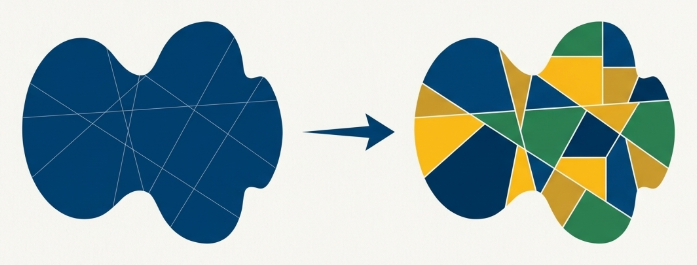
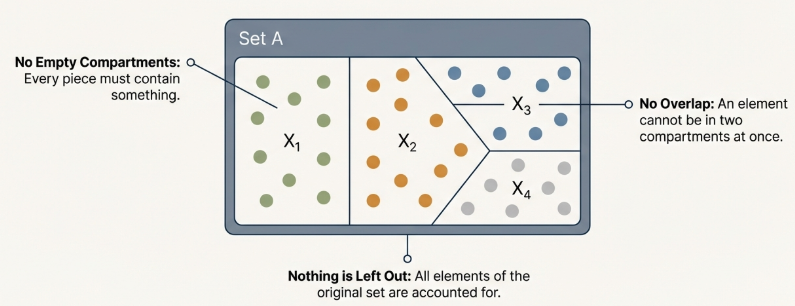
[MPTAM] 01_05 01_06: finish notes

diff --git a/content/math/mptam/01_sets.md b/content/math/mptam/01_sets.md
@@ -249,11 +249,51 @@ Let $A = \\{1, 2, 3, 4, 5, 6, 7\\}$. The collection $S = \\{\\{1, 6\\}, \\{2, 5\
 >
 > 1. **Non-Empty Subsets**: $X \neq \emptyset$ for every set $X \in S$.
 > 2. **Pairwise Disjoint**: For every two sets $X, Y \in S$, either $X = Y$ or $X \cap Y = \emptyset$.
-> 3. **Complete Union**: $\bigcup_{X \inS} X = A$.
+> 3. **Complete Union**: $\bigcup_{X \in S} X = A$.
 
 ![Partitions of Sets](./assets/partitions_of_sets.png)
 
 The 'non-empty' and 'complete union' properties together ensure that every element of $A$ belongs to at least one subset. The 'pairwise disjoint' property ensures that no element can belong to more than one. Combined, these three rigorous checks guarantee that every element of $A$ belongs to exactly one subset.
+
+The concept of partitions extends to well-known infinite sets, providing fundamental classifications:
+
+The set of integers $\mathbb{Z}$ can be partitioned into the set of even integers and the set of odd integers.
+
+The set of real numbers $\mathbb{R}$ can be partitioned into the set of positive real numbers ($\mathbb{R}^+$), the set of negative real numbers, and the singleton set $\\{0\\}$.
+
+The set of real numbers $\mathbb{R}$ can also be partitioned into the set of rational numbers ($\mathbb{Q}$) and the set of irrational numbers ($\mathbb{I}$).
+
+![Set Partitions Examples](./assets/set_partitions_examples.png)
+
+## Cartesian Products of Sets
+
+The Cartesian product is a fundamental set operation that creates a new set from two or more existing sets by forming ordered pairs of their elements.
+
+A critical distinction must be made between a set and an **ordered pair**. For a set containing two elements, such as $\\{x, y\\}$, the order is irrelevant, meaning $\\{x, y\\}$ is identical to $\\{y, x\\}$. In contrast, for an ordered pair $(x, y)$, the order is fundamental.
+
+In the ordered pair $(x, y)$, $x$ is designated as the **first coordinate** and $y$ as the **second coordinate**.
+
+The formal condition for the equality of two ordered pairs is that their corresponding coordinates must be identical. Consequently, if $x \neq y$, then the ordered pair $(x, y)$ is distinct from the ordered pair $(y, x)$.
+
+> [!NOTE] **Cartesian Product**
+>
+> The **Cartesian product** of two sets $A$ and $B$, denoted $A \times B$, is the set of all possible ordered pairs where the first coordinate is an element of $A$ and the second coordinate is an element of $B$.
+>
+> $$A \times B = \{(a, b) : a \in A \text{ and } b \in B\}$$
+
+The Cartesian product **is not a commutative operation**.
+
+> [!TIP] **Properties of Cartesian Products**
+>
+> Several key properties govern the behavior of Cartesian products:
+>
+> - **Cardinality**: For any two finite sets $A$ and $B$, the cardinality of their Cartesian product is the product of their individual cardinalities
+>
+> $$|A \times B| = |A| \cdot |B|$$
+>
+> - **The Empty Set**: If either of the sets in the product is the empty set, the resulting Cartesian product is also the empty set.
+
+A primary example of the Cartesian product is its application in geometry. The set $\mathbb{R} \times \mathbb{R}$ (the Cartesian product of the set of real numbers with itself) represents the set of all points in the two-dimensional Euclidean plane. This structure allows for the algebraic description of geometric figures.
 
 ## TL;DR
 
@@ -264,3 +304,7 @@ The 'non-empty' and 'complete union' properties together ensure that every eleme
 **Set Operations, Indexed Collections of Sets and Partitions**
 
 {{< youtube J9eiSOv_YhA >}}
+
+**Partitions of Sets and Cartesian Products of Sets**
+
+{{< youtube RcCfPZUAZaw >}}
